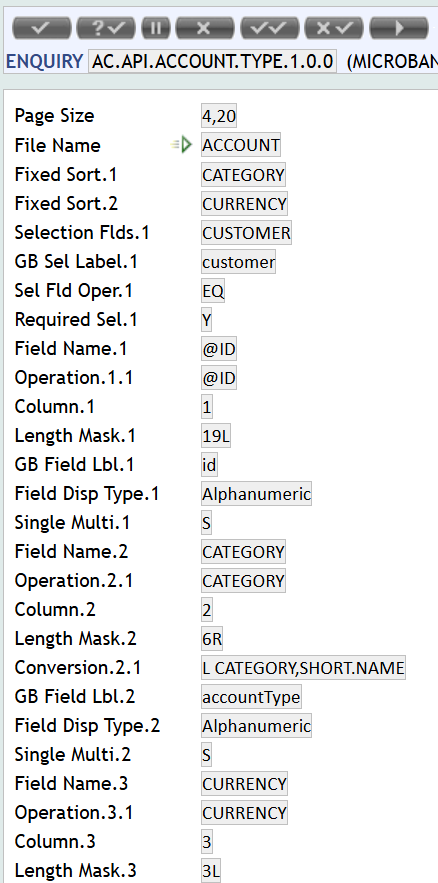
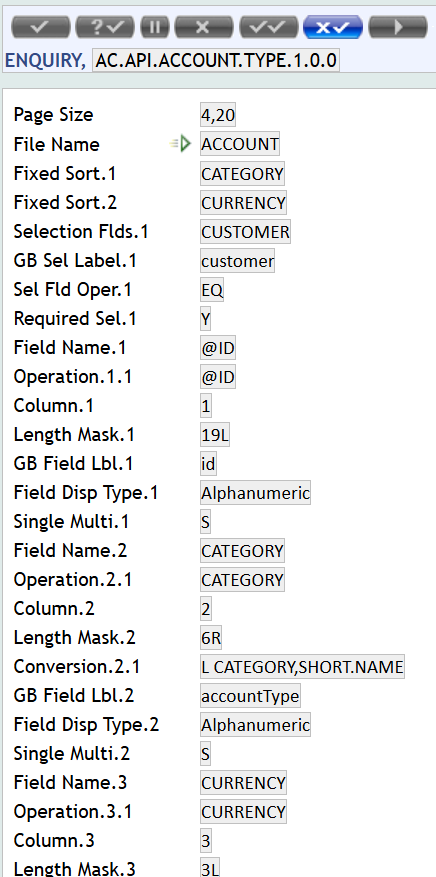
Documenting the API Endpoints

Changed region(s): [[0.0, 0.0, 1.0, 1.0], [0.4472, 0.1539, 0.9541, 1.0], [0.4771, 0.1231, 0.5367, 0.1539]]

diff --git a/README.md b/README.md
@@ -46,8 +46,8 @@ Note: you can't delete an authorised Customer record
 
 ## T24 Setup
 ### Customer Accounts Enquiry API
- T24 | T24 | T24 |
- :---: | :---: | :---: |
+ T24 | T24 |
+ :---: | :---: |
 | ![Customer Accounts Enquiry API](images/1.ENQA.png) | ![Customer Accounts Enquiry API](images/1.ENQB.png) |
 
 ### Creating Current Account Version API
